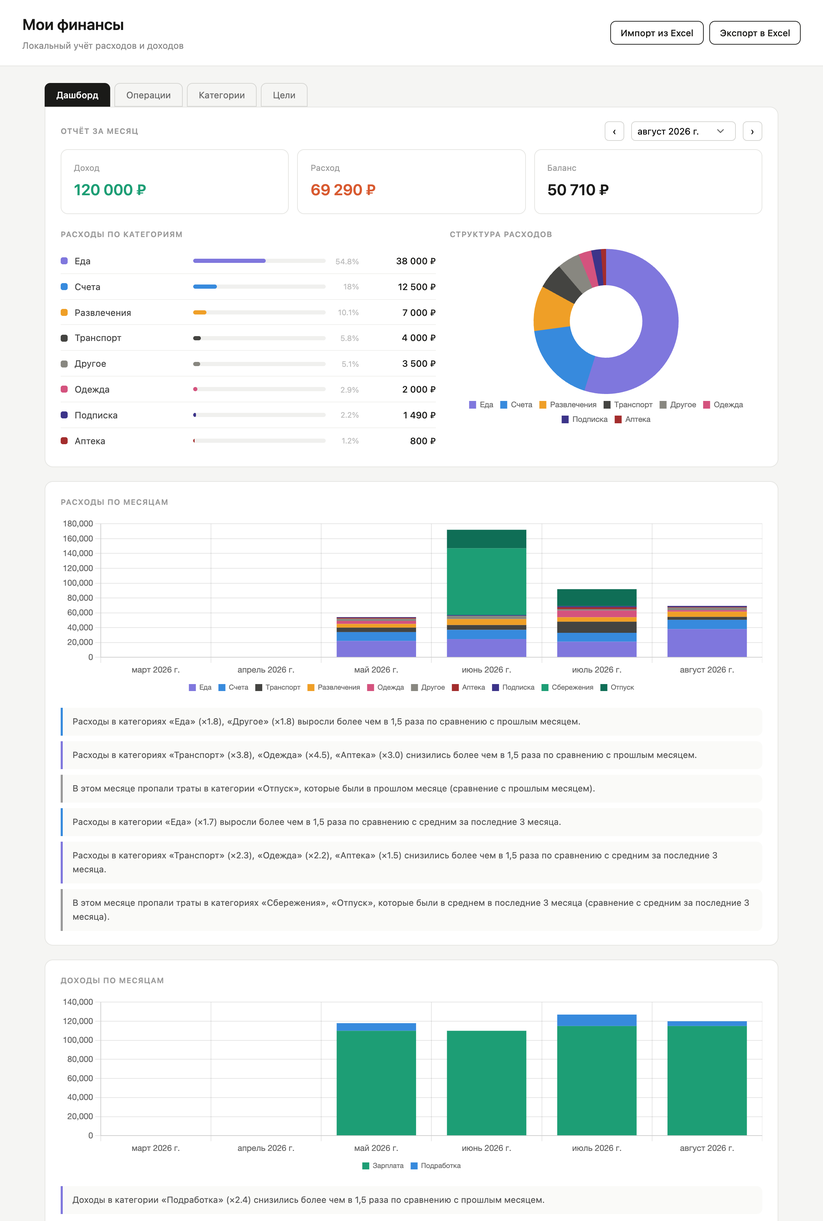
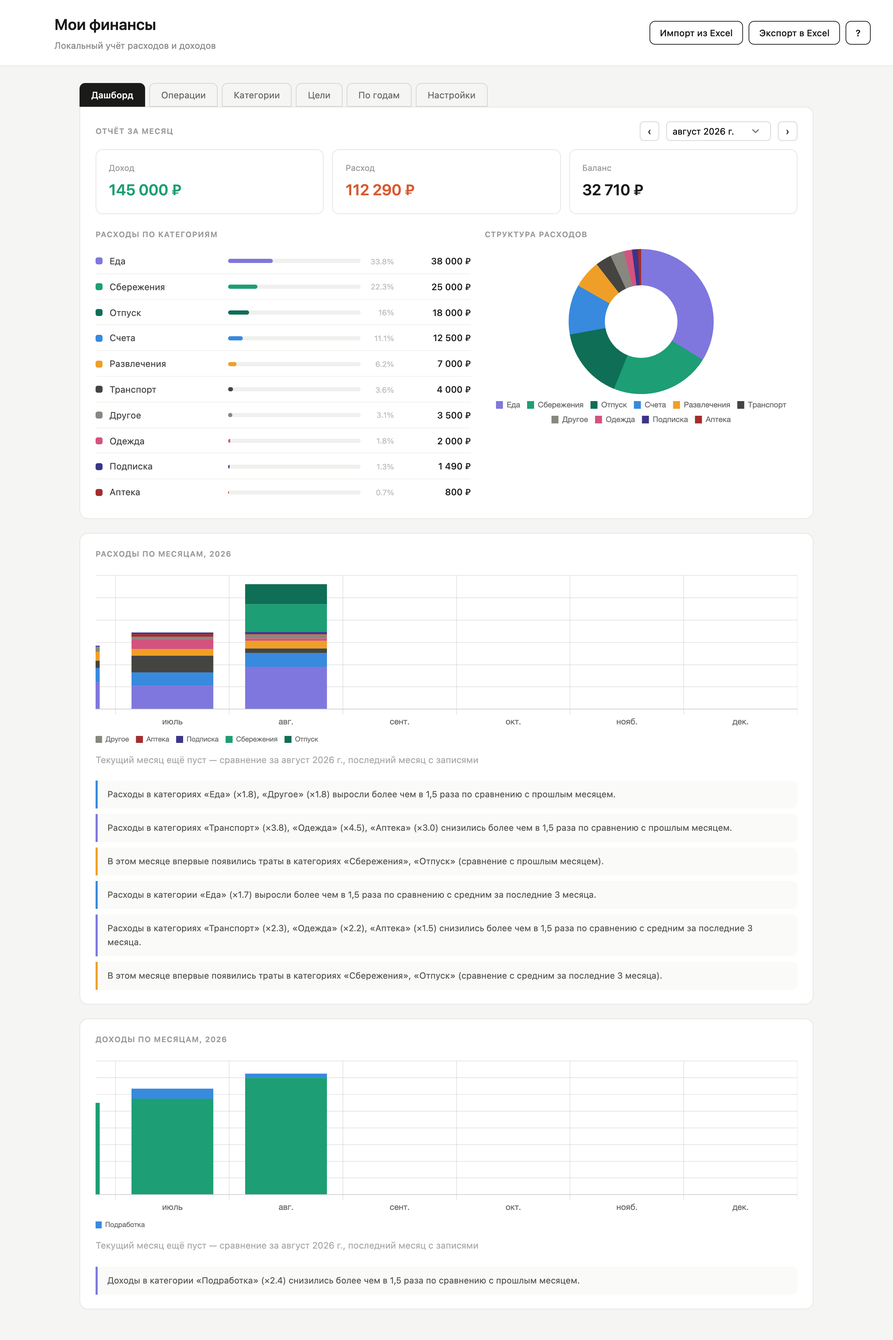
README: переписан для пользователей, актуальные скриншоты, dev-инфо в CLAUDE.md
- «Формат результата» теперь описывает обе версии (веб + приложение для
  Mac), а не только веб-страницу
- Пересняты все скриншоты (реальный запуск с демо-данными, без изменения
  собственной базы) + добавлен «По годам»
- «Минимальный функционал (MVP)» → «Реализованный функционал», список
  дополнен всеми текущими возможностями (undo, По годам, защита паролем,
  гид по приложению)
- «Как запустить» разделён на «Веб-версия» / «Приложение для Mac»
- «Безопасность» оставлена, упрощена до пользовательского языка
- Убраны стек технологий, dev-команды, сборка `.app`, CI/CD, таблица
  Apple-секретов — README теперь только для конечных пользователей, это
  всё перенесено в CLAUDE.md (с пометкой держать в синхроне при будущих
  изменениях)

diff --git a/README.md b/README.md
@@ -1,9 +1,9 @@
 # Мои финансы
 
-Локальный веб-сервис учёта личных расходов и доходов. Запускается одной командой на своём компьютере, все данные хранятся в SQLite-файле рядом с проектом — ничего не уходит в облако.
+Локальный учёт личных расходов и доходов — веб-страница или приложение для Mac, на выбор. Все данные хранятся только на вашем компьютере — ничего не уходит в облако.
 
 <p align="center">
-  <a href="#как-запустить">
+  <a href="#веб-версия">
     <img alt="Веб-версия — запустить локально" src="https://img.shields.io/badge/Веб--версия-запустить_локально-1a1a18?style=for-the-badge&logo=googlechrome&logoColor=white">
   </a>
   <a href="https://github.com/alpakafish/my-finances/releases/latest/download/My-Finances-mac-arm64.dmg">
@@ -20,7 +20,7 @@
 
 > Кнопки для Mac ведут на последний релиз ([Releases](https://github.com/alpakafish/my-finances/releases)) —
 > появятся после первой публикации `.dmg`. Не уверены, какой у вас Mac —
-> Apple Silicon или Intel? См. [«Скачать и установить»](#скачать-и-установить-для-пользователей) ниже.
+> Apple Silicon или Intel? См. [«Приложение для Mac»](#приложение-для-mac) ниже.
 
 ## Проблема
 
@@ -33,22 +33,27 @@
 ## Основная функция
 
 - **Вход**: ручной ввод операции — дата, тип (расход/доход), категория, сумма, заметка.
-- **Обработка**: операции сохраняются в SQLite; категории можно заводить, переименовывать, перекрашивать и удалять (с переносом операций на другую категорию, если категория уже использовалась).
-- **Выход**: отчёт за выбранный месяц (доход / расход / баланс, разбивка расходов по категориям, круговая диаграмма структуры расходов), обзорный график расходов по последним месяцам, и экспорт всех данных в Excel одной кнопкой.
+- **Обработка**: операции сохраняются локально; категории можно заводить, переименовывать, перекрашивать и удалять (с переносом операций на другую категорию, если категория уже использовалась).
+- **Выход**: отчёт за выбранный месяц (доход / расход / баланс, разбивка расходов по категориям, круговая диаграмма структуры расходов), графики по месяцам и по годам, и экспорт всех данных в Excel одной кнопкой.
 
 ## Формат результата
 
-Веб-страница (открывается в браузере на `localhost:3000`) с вкладками Дашборд, Операции, Категории, Цели, По годам и Настройки — плюс кнопка «Экспорт в Excel», которая скачивает `.xlsx` с листом всех операций и сводкой по месяцам (этот же файл можно загрузить обратно через «Импорт», чтобы перенести данные на другое устройство).
+Два способа пользоваться — на выбор:
+
+- **Веб-страница**, открывается в браузере на вашем компьютере;
+- **Приложение для Mac** — то же самое, но отдельной программой, без браузера и без терминала.
+
+В обеих версиях одинаковые вкладки: Дашборд, Операции, Категории, Цели, По годам и Настройки, плюс кнопки «Импорт»/«Экспорт в Excel» — этим же файлом `.xlsx` удобно переносить данные между устройствами или делать резервную копию.
 
 ## Скриншоты
 
-> Данные на скриншотах — демонстрационные (сгенерированы `scripts/seed-demo-data.js`), не настоящий бюджет.
+> Данные на скриншотах — демонстрационные, не настоящий бюджет.
 
-**Дашборд** — отчёт за месяц, структура расходов, расходы и доходы по месяцам с автоматическими рекомендациями по категориям:
+**Дашборд** — отчёт за месяц, структура расходов (категории можно скрывать, нажимая на них в подписи под диаграммой), расходы и доходы по месяцам с автоматическими рекомендациями:
 
 ![Дашборд](images/01-dashboard.png)
 
-**Операции** — добавление операции и список за месяц с фильтром по типу:
+**Операции** — добавление операции и список за месяц с фильтром по типу; удалённую по ошибке операцию можно вернуть кнопкой «Отменить» или сочетанием Cmd/Ctrl+Z:
 
 ![Операции](images/02-transactions.png)
 
@@ -56,38 +61,37 @@
 
 ![Категории](images/03-categories.png)
 
-**Цели** — накопление с кольцом прогресса и авторасчётом «сколько откладывать в месяц»:
+**Цели** — накопление с кольцом прогресса, авторасчётом «сколько откладывать в месяц» и отметкой о достижении цели:
 
 ![Цели](images/04-goals.png)
 
-## Минимальный функционал (MVP)
+**По годам** — операции по месяцам за любой год из прошлого, и сравнение нескольких лет между собой на одном графике:
 
-Реализовано:
-- CRUD операций (добавление, просмотр по месяцам с фильтром «Все/Расходы/Доходы», удаление)
-- CRUD категорий расходов и доходов (добавление, переименование, смена цвета, удаление с переносом операций)
-- Отчёт за месяц с диаграммами (Chart.js) — расходы по категориям, структура расходов, расходы и доходы по месяцам
-- Рекомендации по категориям — если расходы/доходы в категории выросли или упали более чем в 1,5 раза по сравнению с прошлым месяцем или средним за 3 месяца (или категория впервые появилась/пропала), об этом пишет отдельная плашка под графиком
-- Цели накопления (вкладка «Цели», по образцу накопительного счёта с целью) — сумма, необязательный срок в месяцах с автоматическим пересчётом «сколько откладывать в месяц» по мере взносов, кольцо прогресса, быстрый взнос. Цель привязывается к существующей категории расходов или к новой (например «на ноутбук и айфон»), которую можно «подшить» к другой категории (обычно «Сбережения») — так операция видна как есть в списке операций, а на Дашборде и в Excel-сводке суммируется в целевую категорию
-- Импорт из Excel (`exceljs` + `multer`) — загружает листы «Траты…»/«Приход…» из существующей таблицы, с защитой от повторного добавления одних и тех же строк; формат описан в тултипе на кнопке «Импорт из Excel» на дашборде
-- Экспорт в Excel (`exceljs`)
-- Локальное хранилище — SQLite-файл `data/smeta.db`, ничего не отправляется во внешние сервисы
+![По годам](images/05-years.png)
 
-Не реализовано (возможные следующие шаги): редактирование уже добавленной операции (сейчас только удаление и повторное добавление), мультивалютность, бюджеты/лимиты по обычным категориям с уведомлениями (сейчас лимиты есть только у целей накопления).
+## Реализованный функционал
 
-## Технологии
+- Учёт операций: добавление, просмотр по месяцам с фильтром «Все/Расходы/Доходы», удаление с возможностью отменить (кнопка в уведомлении или Cmd/Ctrl+Z)
+- Категории расходов и доходов: добавление, переименование, смена цвета, удаление с переносом операций
+- Отчёт за месяц с диаграммами — расходы по категориям, структура расходов (с возможностью скрывать категории на диаграмме), расходы и доходы по месяцам за текущий год
+- Вкладка «По годам» — то же самое за любой выбранный год, плюс сравнение нескольких лет между собой
+- Автоматические рекомендации — если расходы/доходы в категории заметно выросли, упали, впервые появились или пропали по сравнению с прошлым месяцем или средним за 3 месяца
+- Цели накопления — сумма, необязательный срок с автоматическим пересчётом «сколько откладывать в месяц», кольцо прогресса, быстрый взнос
+- Импорт и экспорт в Excel — включая перенос данных между устройствами и бэкап через собственный формат экспорта
+- Настройки: полная очистка данных (с подтверждением) и защита приложения паролем/Touch ID (в приложении для Mac)
+- Гид по приложению — кнопка «?» в правом верхнем углу показывает обзор возможностей ещё раз
+- Полностью локальное хранение — ничего не отправляется во внешние сервисы
 
-Node.js, Express, `node:sqlite` (встроенный в Node драйвер SQLite — без нативной компиляции при установке), ванильный HTML/CSS/JS, Chart.js (подключён локально, без интернета), ExcelJS для экспорта в `.xlsx`.
+Не реализовано (возможные следующие шаги): редактирование уже добавленной операции (сейчас — удаление и повторное добавление), мультивалютность, бюджеты/лимиты по обычным категориям с уведомлениями (сейчас лимиты есть только у целей накопления).
 
 ## Как запустить
 
-Нужен установленный Node.js версии 22 или новее (он не входит в macOS/Windows/Linux по
-умолчанию — ставится отдельно один раз). Официальный установщик с LTS-версией (кнопка
-"LTS" на сайте) уже подходит.
+### Веб-версия
 
-### Установка Node.js
+Нужен установленный Node.js версии 22 или новее (в macOS/Windows/Linux по умолчанию не входит — ставится отдельно один раз). Официальный установщик с LTS-версией (кнопка "LTS" на сайте) подходит.
 
 <details>
-<summary><b>macOS</b></summary>
+<summary><b>Установка Node.js на macOS</b></summary>
 
 Вариант 1 — официальный установщик: скачайте `.pkg` с [nodejs.org](https://nodejs.org/) (кнопка LTS) и установите как обычное приложение.
 
@@ -98,7 +102,7 @@ brew install node
 </details>
 
 <details>
-<summary><b>Windows</b></summary>
+<summary><b>Установка Node.js на Windows</b></summary>
 
 Вариант 1 — официальный установщик: скачайте `.msi` с [nodejs.org](https://nodejs.org/) (кнопка LTS), запустите и пройдите мастер установки (Next → Next → Install).
 
@@ -109,7 +113,7 @@ winget install OpenJS.NodeJS.LTS
 </details>
 
 <details>
-<summary><b>Linux</b></summary>
+<summary><b>Установка Node.js на Linux</b></summary>
 
 Проще и надёжнее всего — через [nvm](https://github.com/nvm-sh/nvm) (не зависит от версии в репозиториях дистрибутива):
 ```bash
@@ -126,7 +130,7 @@ sudo apt install nodejs npm
 
 Проверить, что установка прошла успешно, можно командой `node -v` — она должна вывести версию (22.x или новее).
 
-### Запуск проекта
+Дальше:
 
 ```bash
 git clone https://github.com/alpakafish/my-finances.git
@@ -139,19 +143,11 @@ npm start
 
 Либо на Mac просто дважды кликните `start.command` (на Windows — `start.bat`): скрипт сам поднимет сервер и откроет браузер.
 
-Данные хранятся в `data/smeta.db` — это обычный файл, его можно скопировать для бэкапа или перенести на другой компьютер вместе с папкой проекта.
+Данные хранятся в `data/smeta.db` — это обычный файл, его можно скопировать для бэкапа или перенести на другой компьютер вместе с папкой проекта. Чтобы остановить сервер — закройте терминал/окно скрипта или нажмите `Ctrl+C`.
 
-Чтобы остановить сервер — закройте терминал/окно скрипта или нажмите `Ctrl+C`.
+### Приложение для Mac
 
-## macOS Desktop App
-
-Помимо веб-версии выше, в [`desktop/`](desktop/) есть нативное macOS-приложение
-(Electron), которое встраивает тот же самый бэкенд (`server.js`/`db.js`/`routes/`) —
-пользователю не нужны Node, npm или терминал, никакой `localhost` наружу не
-показывается. Обе версии независимы: веб-версия продолжает работать как раньше.
-Архитектурное решение и его обоснование — в [`desktop/ARCHITECTURE.md`](desktop/ARCHITECTURE.md).
-
-### Скачать и установить (для пользователей)
+Отдельная программа — Node, npm и терминал не нужны, никакой браузер не открывается.
 
 > Этот блок продублирован в описании каждого релиза на странице
 > [Releases](https://github.com/alpakafish/my-finances/releases) — так его
@@ -161,17 +157,16 @@ npm start
    - `My Finances-*-arm64.dmg` — для Mac на Apple Silicon (M1/M2/M3/M4),
    - `My Finances-*.dmg` (без `arm64`) — для Mac на Intel.
 
-   Не уверены, какой у вас Mac? Меню  → «Об этом Mac» → строка «Чип»/«Процессор»:
+   Не уверены, какой у вас Mac?  → «Об этом Mac» → строка «Чип»/«Процессор»:
    если там «Apple M…» — берите `arm64`, если «Intel» — второй файл.
 
 2. Откройте скачанный `.dmg` и перетащите **My Finances** в папку **Applications**.
 
 3. **При первом запуске macOS может показать «Apple не может проверить,
    что это приложение не содержит вредоносного ПО»** — это ожидаемо: сборка
-   пока не подписана сертификатом Apple Developer (это платная подписка,
-   подробности — в разделе [Apple Signing](#apple-signing--notarization)
-   ниже). Приложение при этом безопасно, просто Apple его не сертифицировала.
-   Чтобы всё же открыть — один раз, дальше запускается как обычно:
+   пока не подписана платным сертификатом Apple Developer. Приложение при
+   этом безопасно, просто Apple его не сертифицировала. Чтобы всё же
+   открыть — один раз, дальше запускается как обычно:
 
    - **Проще всего**: щёлкните по «My Finances» в Applications правой кнопкой
      (или Control+клик) → **«Открыть»** → в появившемся диалоге снова
@@ -182,114 +177,16 @@ npm start
 
    После этого при следующих запусках предупреждений больше не будет.
 
-### Разработка
+Данные хранятся в `~/Library/Application Support/My Finances/` — это стандартное место для данных приложений на Mac, обновления приложения его не затрагивают. Когда выйдет новая версия, приложение само предложит обновиться.
 
-```bash
-cd desktop
-npm install
-npm start          # запускает Electron в dev-режиме поверх ../server.js напрямую
-npm test           # backend-интеграционные тесты + сквозной запуск .app
-```
+## Безопасность
 
-### Сборка `.app`
+Приложение не собирает и никуда не отправляет ваши данные — всё хранится только на вашем компьютере. Секретов вроде паролей от сторонних сервисов в приложении нет — единственная интеграция, импорт/экспорт в Excel, работает полностью офлайн.
 
-```bash
-cd desktop
-npm install
-npm run dist:dir    # неподписанная dev-сборка в desktop/dist/mac*/My Finances.app
-npm run dist        # полная сборка (dmg + zip, arm64 + x64) — подписывает/нотарицирует,
-                     # если заданы Apple-переменные окружения (см. «Apple Signing» ниже),
-                     # иначе выдаёт неподписанный билд
-```
+**Защита паролем/Touch ID** (Настройки → «Защищать приложение паролем», доступно в приложении для Mac): если включить, при каждом запуске нужно будет подтвердить личность, прежде чем откроется доступ к данным.
 
-### Хранение данных
+- Если на Mac включён Touch ID — приложение сразу предложит его. Это стандартный системный диалог macOS — сам отпечаток пальца в приложение никогда не попадает.
+- Если Touch ID недоступен или отменён — можно ввести пароль от учётной записи Mac. Он проверяется самой macOS, не сохраняется и никуда не передаётся.
+- Если закрыть окно входа, не подтвердив личность, — приложение закрывается целиком, доступа к данным нет.
 
-При первом запуске приложение создаёт SQLite-базу в стандартном macOS
-Application Support (**не** внутри `.app` — обновления приложения её не трогают):
-
-```
-~/Library/Application Support/My Finances/data/smeta.db
-```
-
-Логи — там же, в `~/Library/Logs/My Finances/main.log` (в проде) или
-`~/Library/Logs/my-finances-desktop/main.log` (при запуске из dev-режима, `npm start`).
-Пароли/токены/суммы операций в логи не пишутся (см. redact-хук в `desktop/src/main.js`).
-
-### Security / Keychain
-
-В приложении сегодня нет ни одного секрета (API-ключей, OAuth-токенов и т.п.) —
-единственная интеграция, `.xlsx` импорт/экспорт, работает полностью локально.
-Поэтому Keychain сейчас ничего не хранит; когда/если появится секрет, требующий
-защиты, используйте `electron.safeStorage` (обёртка над Keychain) — заводить
-собственную криптографию не нужно.
-
-**Защита паролем/Touch ID** (Settings → «Защищать приложение паролем», только
-desktop): при запуске приложение показывает отдельный экран входа перед тем как
-дать доступ к данным. Порядок:
-
-1. Если на Mac включён Touch ID (`systemPreferences.canPromptTouchID()`) — сразу
-   предлагается системный запрос Touch ID (`systemPreferences.promptTouchID()`,
-   `desktop/src/auth.js`). Это стандартный LocalAuthentication-биометрический
-   диалог macOS — сам пароль/отпечаток в наш код никогда не попадает.
-2. Если Touch ID недоступен, отменён или произошла ошибка — можно ввести пароль
-   учётной записи Mac. Он сверяется через `dscl . -authonly <username>`
-   (стандартная утилита macOS для проверки логин-пароля без запроса admin/sudo
-   прав), пароль передаётся процессу только через stdin, не через argv и не
-   логируется (см. redact-хук в `desktop/src/main.js`), нигде не сохраняется.
-3. Если закрыть экран входа, не пройдя проверку — всё приложение (включая
-   бэкенд) корректно завершается, доступа к данным нет.
-
-Ограничение: по документации Electron `promptTouchID()` — это сигнал "успешно ли
-прошла биометрия", а не криптографический замок сам по себе (см. предупреждение
-в Electron docs); для личного финансового трекера этого достаточно, но это не
-banking-grade защита.
-
-### Releases (GitHub Actions)
-
-`.github/workflows/release-macos.yml` — при пуше тега `desktop-v*` (или вручную,
-`workflow_dispatch`) собирает `.app` под `arm64` и `x86_64` отдельными артефактами
-(без universal-бинаря — так меньше итоговый размер на скачивание для каждой
-архитектуры), подписывает/нотарицирует при наличии секретов и публикует на
-GitHub Releases через `electron-builder --publish always`.
-
-Обновления внутри приложения — `electron-updater`, тянет релизы из того же
-GitHub Releases; пользователь видит уведомление и жмёт «Перезапустить сейчас»,
-БД в Application Support обновление не трогает (Phase 10).
-
-### Apple Signing / Notarization
-
-Локально в этом окружении сертификатов Developer ID нет (`security find-identity`
-вернул 0 identities) — `npm run dist` собирает неподписанный dev-билд, это
-ожидаемо. Для подписанных/нотарицированных релизов из CI задайте в GitHub
-Secrets репозитория:
-
-| Secret | Что это |
-|---|---|
-| `MAC_CSC_LINK` | Developer ID Application сертификат, `.p12`, в base64 |
-| `MAC_CSC_KEY_PASSWORD` | пароль от `.p12` |
-| `APPLE_ID` | Apple ID разработчика |
-| `APPLE_APP_SPECIFIC_PASSWORD` | app-specific password для notarytool |
-| `APPLE_TEAM_ID` | Team ID из Apple Developer |
-
-Без них workflow не падает — просто публикует неподписанный билд
-(`desktop/scripts/notarize.js` логирует и пропускает нотаризацию).
-
-### CI/CD
-
-GitHub Actions на `macos-latest`: `npm ci` для корневых зависимостей (общий
-бэкенд) → `npm test` (интеграционные тесты сервера) → `npm ci`/`npm test` в
-`desktop/` (unit + сквозной запуск `.app`) → `electron-builder --publish always`.
-
-### Troubleshooting
-
-- **Приложение не открывается, пишет про повреждённый файл** — неподписанный
-  билд не проходит Gatekeeper при обычном скачивании; либо используйте
-  подписанный релиз из CI, либо `xattr -dr com.apple.quarantine "My Finances.app"`
-  для локально собранного dev-билда.
-- **Не видно новых данных после обновления** — БД лежит вне `.app`
-  (`~/Library/Application Support/My Finances`), обновление её не удаляет;
-  если данные всё же пропали, проверьте, что не открыт старый dev-инстанс
-  с другим `--user-data-dir`.
-- **«Бэкенд остановлен» при запуске** — см.
-  `~/Library/Logs/My Finances/main.log`; частая причина — нет прав на запись в
-  Application Support (по умолчанию так не бывает, но проверить стоит первым).
+Это удобная защита от чужого случайного доступа к приложению на вашем компьютере, а не банковский уровень шифрования — для личного финансового трекера этого достаточно.

diff --git a/CLAUDE.md b/CLAUDE.md
@@ -89,7 +89,78 @@ one.
   change — `files`/`extraResources` copy at build time, so editing source
   alone doesn't update an already-built `.app`.
 
+## Building & releasing
+
+README.md is end-user-only now (see "README is for users, not developers"
+below) — this is where the developer-facing build/release info actually lives.
+
+**Tech stack**: Node.js, Express, `node:sqlite` (built into Node ≥22, no
+native compilation), vanilla HTML/CSS/JS, Chart.js (bundled locally), ExcelJS
+for `.xlsx` import/export. No frontend framework, no build step.
+
+**Dev commands**:
+```bash
+# web (repo root)
+npm install && npm start        # http://localhost:3000
+
+# desktop
+cd desktop
+npm install
+npm start                       # Electron dev mode over ../server.js directly
+npm test                        # backend integration tests + real .app launch
+npm run dist:dir                # unsigned dev build → desktop/dist/mac*/My Finances.app
+npm run dist                    # full build (dmg+zip, arm64+x64); signs/notarizes if Apple env vars are set
+```
+
+**Release pipeline** (`.github/workflows/release-macos.yml`): triggers on
+push of a `desktop-v*` tag, or manual `workflow_dispatch`. Runs on
+`macos-latest`: `npm ci` + `npm test` (root, shared backend) → `npm ci` +
+`npm test` (desktop) → `electron-builder --mac --arm64 --x64 --publish
+always`. Builds both architectures as separate artifacts (no universal
+binary — smaller download per arch), publishes `.dmg`/`.zip` to GitHub
+Releases. `desktop/electron-builder.yml` sets `artifactName:
+'My-Finances-mac-${arch}.${ext}'` (no version in the filename) specifically
+so the `/releases/latest/download/My-Finances-mac-arm64.dmg` links in
+README stay valid across every future release without edits.
+
+**Do NOT create a tag matching `desktop-v*`** unless you actually intend to
+trigger a real signed/published release — that pattern is the CI trigger.
+Use a different prefix (e.g. `backup-YYYY-MM-DD`) for plain safety/checkpoint
+tags.
+
+**Apple signing/notarization** — GitHub Secrets required for the release
+workflow to produce a signed build (without them it still succeeds, just
+publishes unsigned):
+
+| Secret | What |
+|---|---|
+| `MAC_CSC_LINK` | Developer ID Application cert, `.p12`, base64-encoded |
+| `MAC_CSC_KEY_PASSWORD` | password for that `.p12` |
+| `APPLE_ID` | the Apple ID enrolled in Apple Developer Program |
+| `APPLE_APP_SPECIFIC_PASSWORD` | app-specific password (appleid.apple.com) for notarytool |
+| `APPLE_TEAM_ID` | 10-char Team ID from developer.apple.com/account |
+
+Apple Developer Program is a paid ($99/yr) prerequisite for a Developer ID
+cert — there's no free way to get a notarizable cert. As of this writing, no
+certs are configured, so releases are unsigned; users need the Gatekeeper
+bypass instructions that live in README's "Приложение для Mac" section.
+
+## README is for users, not developers
+
+README.md should only ever contain what a non-technical person downloading
+or running the app needs: what it does, screenshots, how to get it running
+(web or Mac app), and the security/privacy explanation. Anything about
+building, testing, CI, signing secrets, or the tech stack belongs here in
+CLAUDE.md instead — if you add a dev-facing README section, move it here
+instead the next time you touch README.
+
 ## Git
 
-`legacy-web` branch / `legacy-web-v1` tag are the pre-desktop-migration
-snapshot — never modify them. Desktop work happens on `desktop-macos`.
+`main` is the live branch (web at repo root + `desktop/`, merged from
+`desktop-macos` on 2026-08-12). `backup-YYYY-MM-DD` tags are periodic
+safety checkpoints — never named `desktop-v*` (see release pipeline note
+above, that prefix triggers a real release). The original pre-desktop
+snapshot (`legacy-web`/`legacy-web-v1`) was deleted once desktop work was
+verified — its commit is still reachable as an ancestor of `main`
+(`6ceee2a`, "Убрать better-sqlite3 полностью..."), so nothing was lost by
+removing the named refs.
